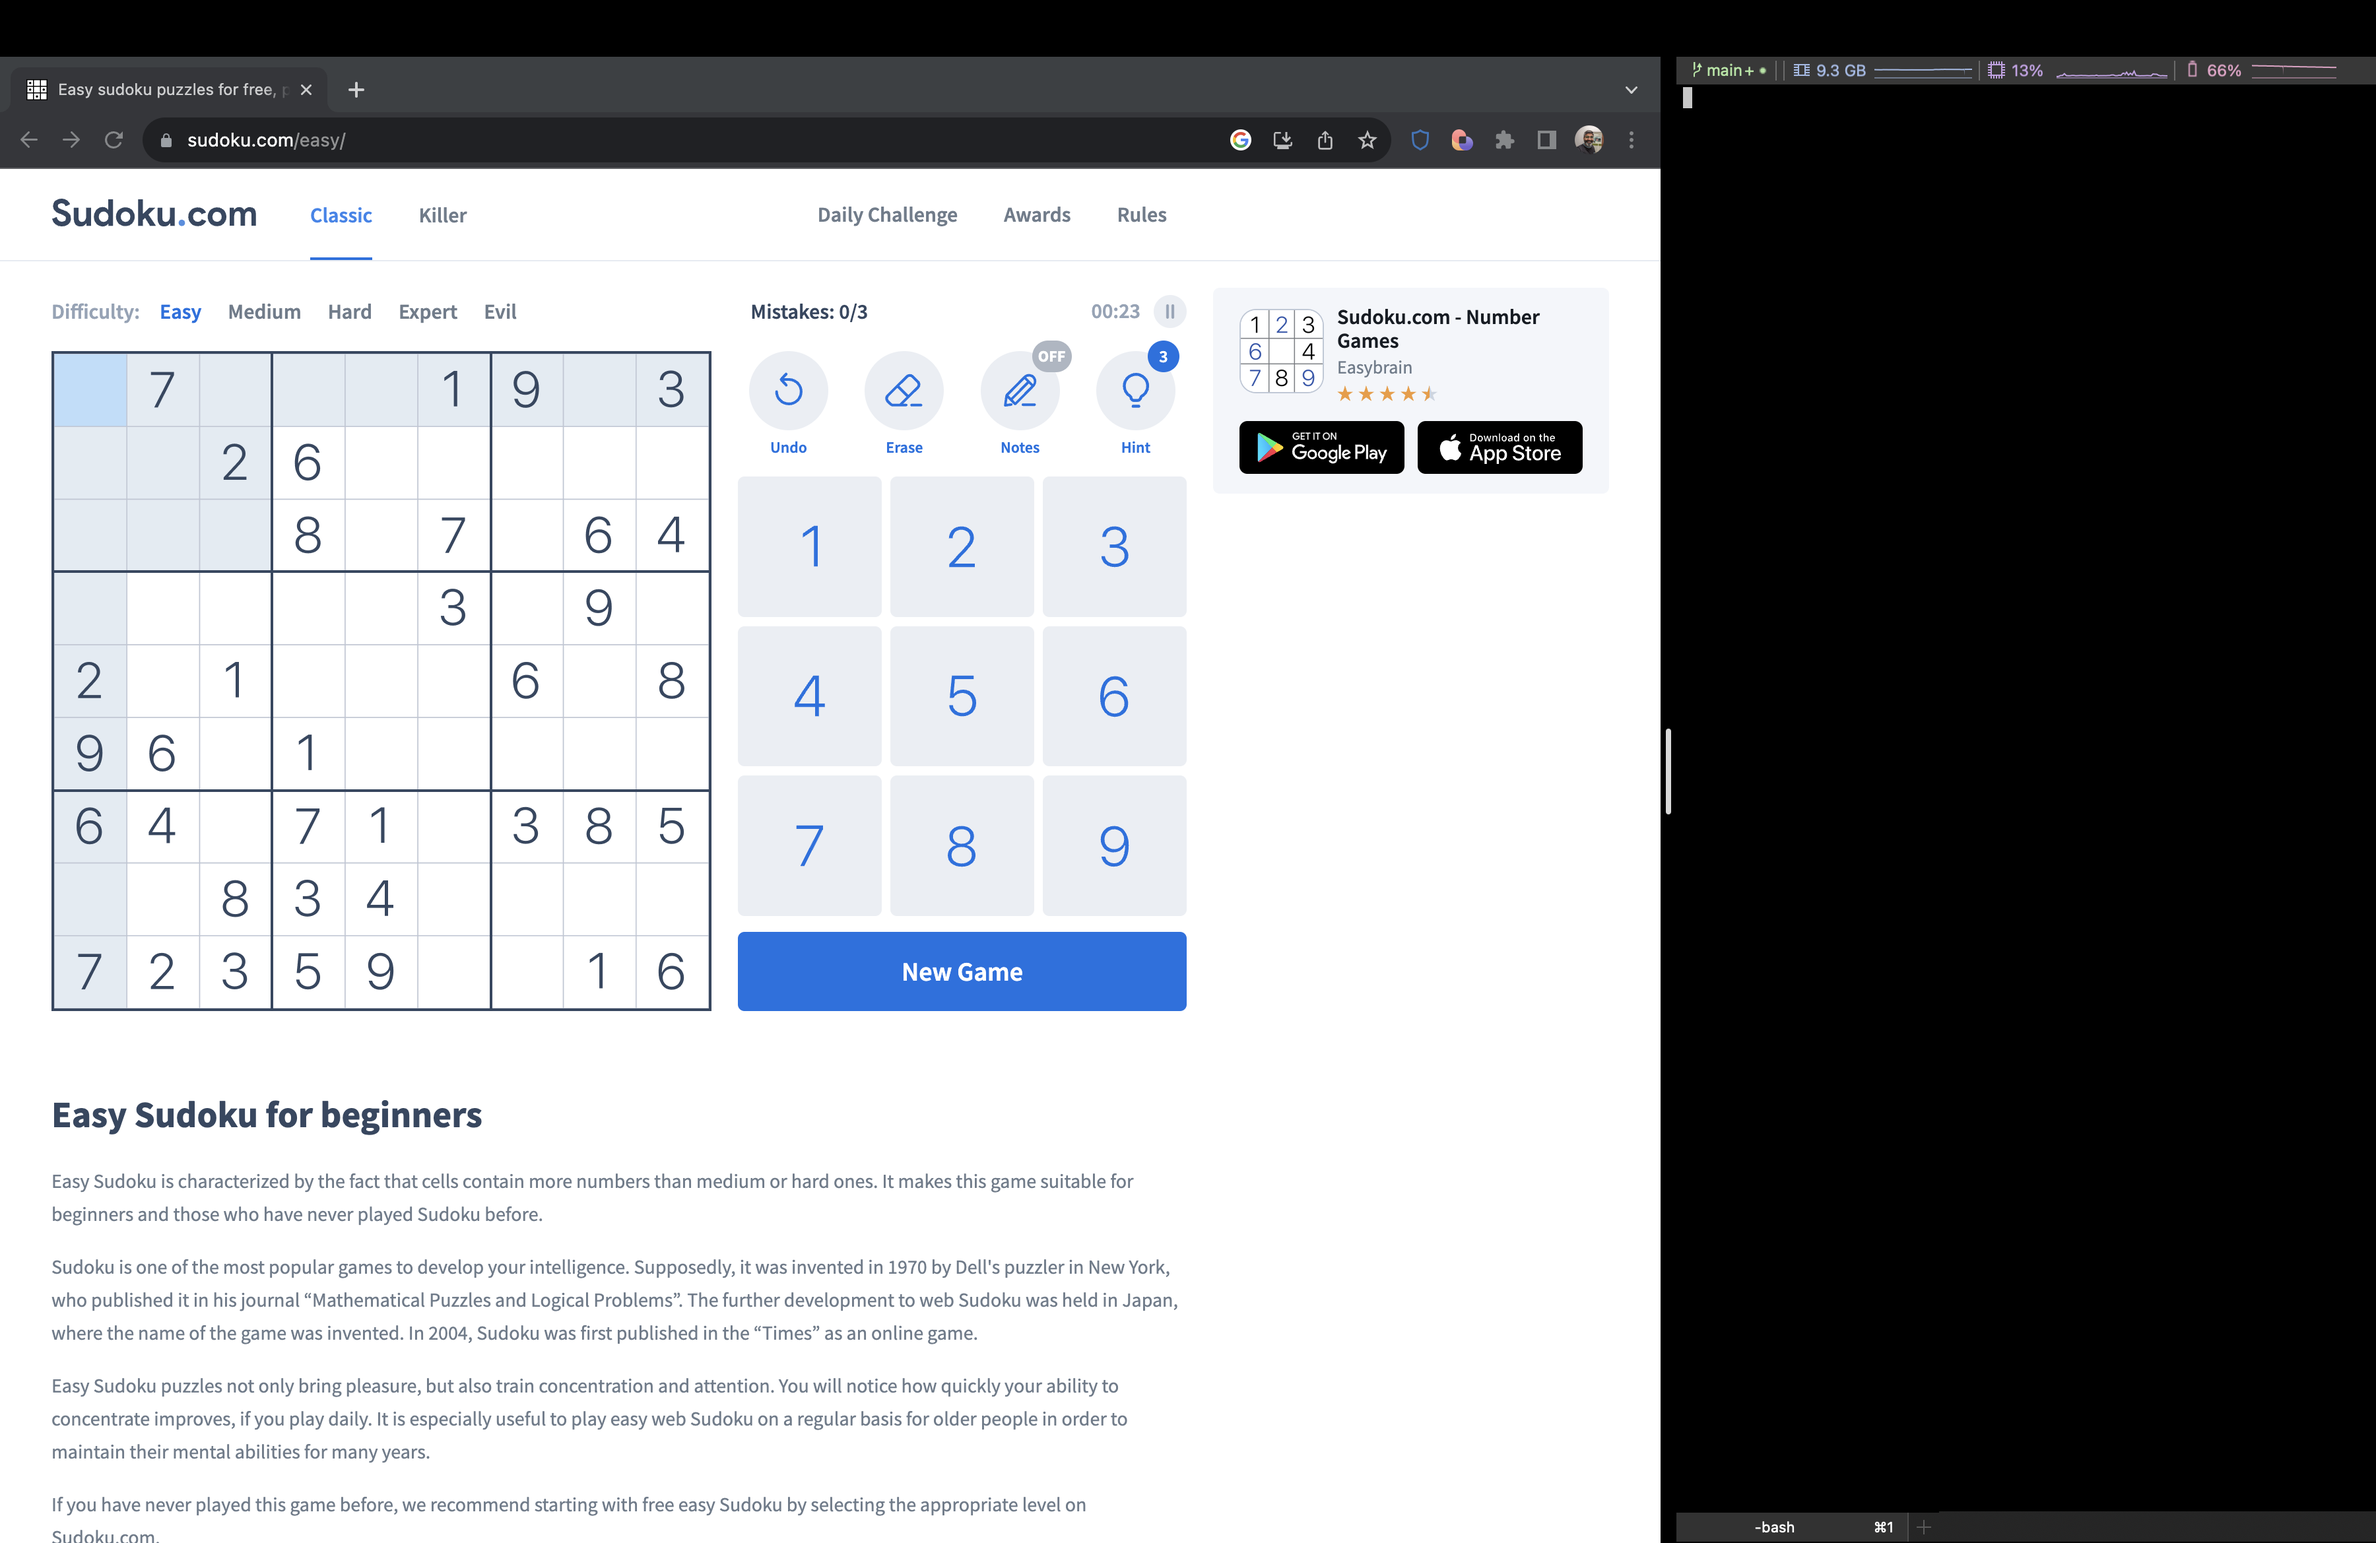
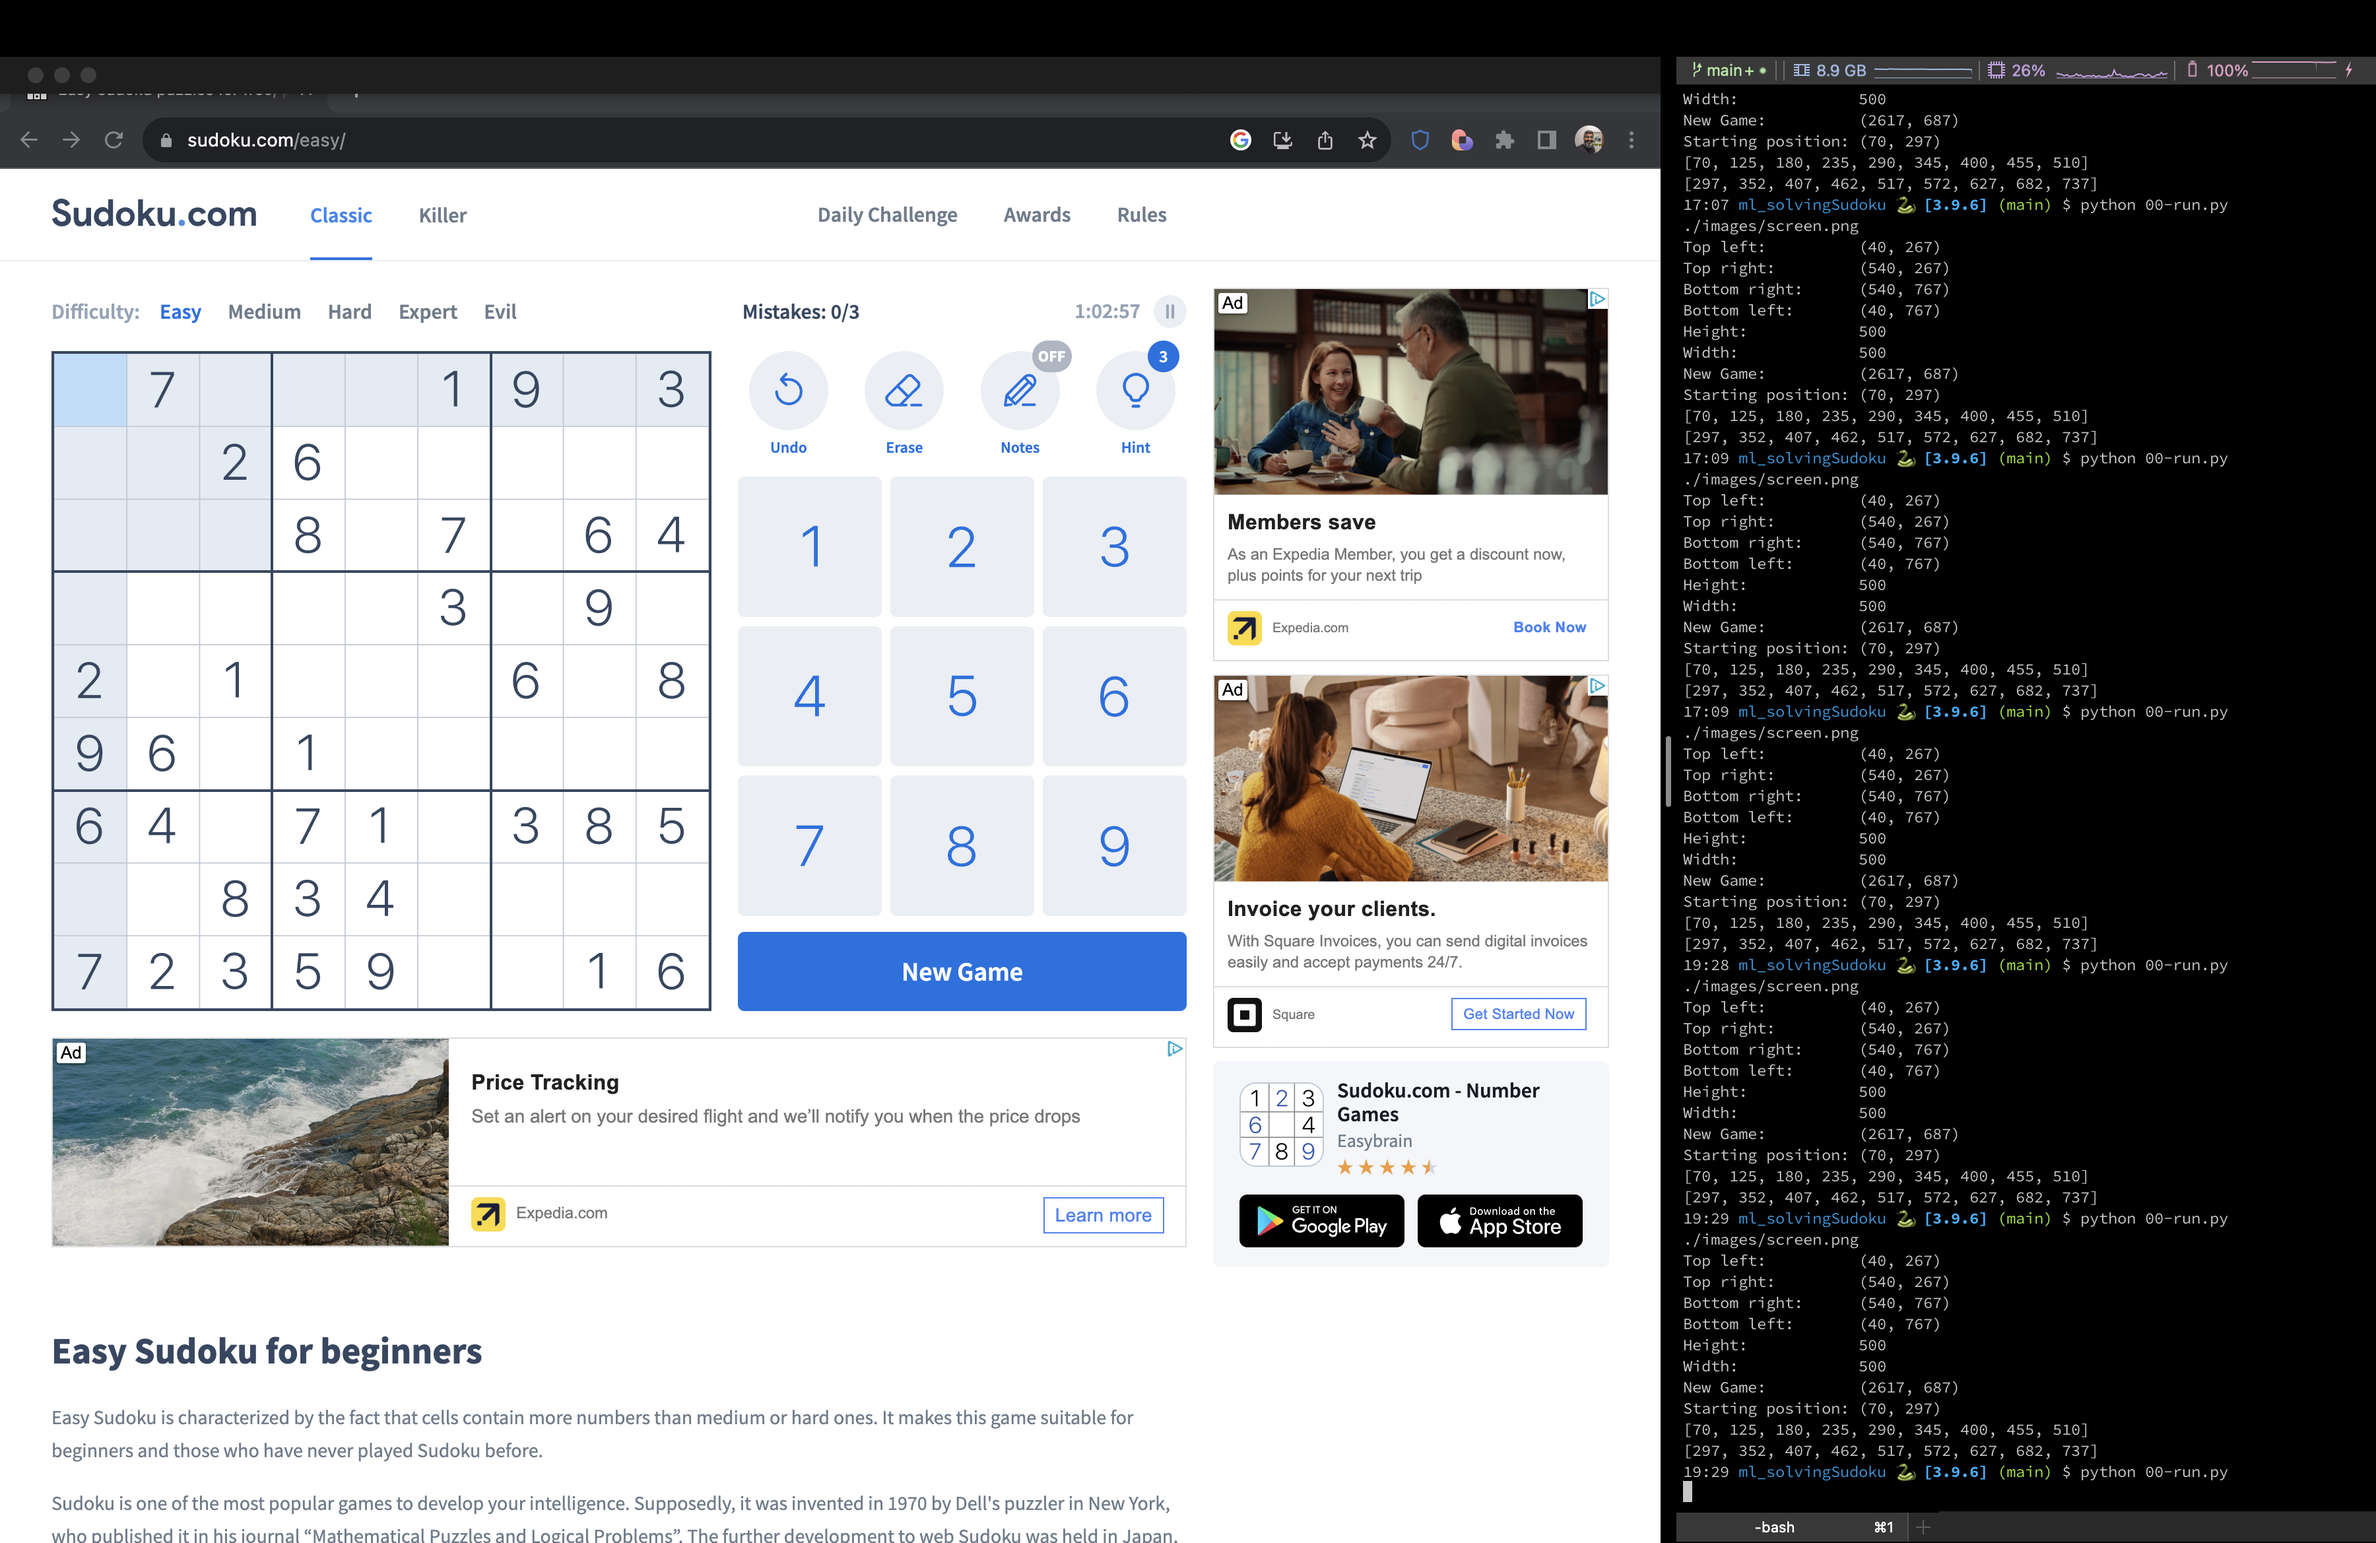
A lot of things happening

diff --git a/01.takeScreenShot.py b/01.takeScreenShot.py
@@ -1,4 +1,5 @@
 import pyautogui
+import pytesseract
 import cv2
 import numpy as np
 import mss
@@ -6,28 +7,142 @@ import mss
 # import time
 # time.sleep(2)
 
+offset = 50
+offsetMatrix = {
+	"x": [70, 125, 180, 235, 290, 345, 400, 455, 510],
+	"y": [297, 352, 407, 462, 517, 572, 627, 682, 737]
+}
+
 filename ="./images/screen.png"
 
 # screenshot = pyautogui.screenshot('screenshot.png')
 # screenshot.save(r'./images/screen.png')
 
-screenshotImage = pyautogui.screenshot()
-screenshotImage = np.array(screenshotImage)
-opencvImage = cv2.cvtColor(screenshotImage, cv2.COLOR_RGB2BGR)
-textLocation = pyautogui.locateAllOnScreen('./images/difficulty.png',grayscale=True, confidence=0.45)
-
-image = opencvImage.copy()
-for loc in list(textLocation):
-  print(loc)
-  cv2.circle(image, (loc.left, loc.top), 10, (0, 0, 255), 10)
-  pyautogui.moveTo(loc.left, loc.top, duration=0.1)  
-
-cv2.imwrite("./images/screen2.png", image)
-
 # with mss.mss() as sct:
 #   filename = sct.shot(output="./images/screen.png")
 #   print(filename)
-#   textLocation = pyautogui.locate('./images/difficulty.png', filename, grayscale=True, confidence=0.1)
-#   cv2.circle(image, topLeft, radius, (0, 0, 255), 10)
-#   print(textLocation)
-#   pyautogui.moveTo(textLocation.left, textLocation.top, duration=1)  
+
+# image = cv2.imread(filename)
+
+# x, y = 120 * 2, 292 * 2
+
+# offset = 50
+# x1, y1 = x - offset, y - offset
+# x2, y2 = x + offset, y + offset
+
+# cv2.circle(image, (x,y), 10, (0, 0, 255), 10)
+
+# cv2.rectangle(image, (x1, y1), (x2, y2), (255, 0, 0), 2)
+
+# cv2.imwrite("./images/cell.png", image)
+
+def convertToBW(image, greyLimit):
+	for y in range(0, len(image)):
+		for x in range(0, len(image[y])):
+			if image[y][x] < greyLimit:
+				image[y][x] = 0
+			else:
+				image[y][x] = 255
+	return image
+
+def takeScreenShotOfRegionInOpenCVFormat(x, y, width, height):
+	with mss.mss() as sct:
+		monitor = {
+			"top": y, 
+			"left": x,
+			"width": width, 
+			"height": height
+		}
+	region = np.array(sct.grab(monitor))
+	region = cv2.cvtColor(region, cv2.COLOR_BGRA2GRAY)
+	return region
+
+def takeScreenshotOfCell(x, y, filename):
+	trimValue = 5
+	x = x - offset/2 + trimValue
+	y = y - offset/2 + trimValue
+	length = offset - (trimValue * 3)
+	return takeScreenShotOfRegionInOpenCVFormat(x, y, length, length)
+
+# difficulty image 
+x, y = 38.04296875, 227.140625
+region = takeScreenShotOfRegionInOpenCVFormat(x, y, 70, 20)
+region = convertToBW(region, 170)
+cv2.imwrite("./images/difficulty.png", region)
+
+# generate the numbers
+# x, y = 2,4
+# takeScreenshotOfCell(offsetMatrix["x"][x], offsetMatrix["y"][y], "./images/n-1")
+# x, y = 1,8
+# takeScreenshotOfCell(offsetMatrix["x"][x], offsetMatrix["y"][y], "./images/n-2")
+# x, y = 2,8
+# takeScreenshotOfCell(offsetMatrix["x"][x], offsetMatrix["y"][y], "./images/n-3")
+# x, y = 1,6
+# takeScreenshotOfCell(offsetMatrix["x"][x], offsetMatrix["y"][y], "./images/n-4")
+# x, y = 3,8
+# takeScreenshotOfCell(offsetMatrix["x"][x], offsetMatrix["y"][y], "./images/n-5")
+# x, y = 3,1
+# takeScreenshotOfCell(offsetMatrix["x"][x], offsetMatrix["y"][y], "./images/n-6")
+# x, y = 0,8
+# takeScreenshotOfCell(offsetMatrix["x"][x], offsetMatrix["y"][y], "./images/n-7")
+# x, y = 2,7
+# takeScreenshotOfCell(offsetMatrix["x"][x], offsetMatrix["y"][y], "./images/n-8")
+# x, y = 4,8
+# takeScreenshotOfCell(offsetMatrix["x"][x], offsetMatrix["y"][y], "./images/n-9")
+
+# numbers = []
+# for i in range(0, 9):
+# 	numbers.append(cv2.imread("./images/n-" + str(i+1) + ".png", cv2.IMREAD_GRAYSCALE))
+
+# x, y = 7,8 # 1
+# x, y = 2,1 # 2
+# x, y = 5,3 # 3
+# x, y = 4,7 # 4
+# x, y = 8,6 # 5
+# x, y = 6,4 # 6
+# x, y = 5,2 # 7
+# x, y = 8,4 # 8
+# x, y = 4,8 # 9
+# cell = takeScreenshotOfCell(offsetMatrix["x"][x], offsetMatrix["y"][y], "./images/cell")
+
+# maxValue = 0
+# number = 0
+# for i in range(0, len(numbers)):
+# 	result = cv2.matchTemplate(cell, numbers[i], cv2.TM_CCOEFF_NORMED)
+# 	min_val, max_val, min_loc, max_loc = cv2.minMaxLoc(result)
+# 	print("{0} {1}".format(i+1, max_val))
+# 	if max_val > maxValue:
+# 		maxValue = max_val
+# 		number = i+1
+
+# print(number)
+
+# def toBW(image):
+# 	for y in range(0, len(image)):
+# 		for x in range(0, len(image[y])):
+# 			if image[y][x] < 180:
+# 				image[y][x] = 0
+# 			else:
+# 				image[y][x] = 255
+# 	return image
+
+imageOfDifficulty = cv2.imread("./images/difficulty.png", cv2.IMREAD_GRAYSCALE)
+
+imageOfSreen = cv2.imread("./images/screen.png", cv2.IMREAD_GRAYSCALE)
+imageOfSreen = convertToBW(imageOfSreen, 180)
+cv2.imwrite("./images/screenBW.png", imageOfSreen)
+
+result = cv2.matchTemplate(imageOfSreen, imageOfDifficulty, cv2.TM_CCOEFF_NORMED)
+min_val, max_val, min_loc, max_loc = cv2.minMaxLoc(result)
+# print(min_val, max_val, min_loc, max_loc)
+print(max_loc)
+
+locMax = tuple(int(i/2) for i in max_loc)
+print(locMax)
+
+topLeft = (40, 267)
+print(topLeft)
+
+topLeft = (locMax[0], locMax[1] + 40)
+print(topLeft)
+pyautogui.moveTo(topLeft, duration=1)

diff --git a/00-run.py b/00-run.py
@@ -1,9 +1,11 @@
-import mss, pyautogui
+import mss, pyautogui, cv2
+import numpy as np
 from pynput.mouse import Listener, Controller
 
 # Globals
 monitor = 1
-duration = 0.1 # Duration of the mouse movement
+duration = 0.0 # Duration of the mouse movement
+scale = 1.0 # Scale of the screenshot
 # topLeft = (0, 0)
 topLeft = (40, 267)
 topRight = (0, 0)
@@ -15,7 +17,7 @@ widthOfGrid = 500
 newGameButton = (2617, 687)
 
 counter = 0
-cellStartOffset = 25;
+cellStartOffset = 30;
 startingPosition = (0, 0)
 offset = 50
 offsetMatrix = {
@@ -54,10 +56,28 @@ def mapCoordinates():
 		listener.join()
 
 
-def takeScreenshotOfASpecificArea(topLeft, bottomRight):
+def takeScreenshotOfCell(x, y):
+	trimValue = 5
+	x = x - offset/2 + trimValue
+	y = y - offset/2 + trimValue
+	length = offset - (trimValue * 3)
 	with mss.mss() as sct:
-		monitor = {"top": topLeft[1], "left": topLeft[0], "width": bottomRight[0] - topLeft[0], "height": bottomRight[1] - topLeft[1]}
-		return sct.grab(monitor)
+		monitor = {
+			"top": y, 
+			"left": x,
+			"width": length, 
+			"height": length
+		}
+	cell = np.array(sct.grab(monitor))
+	cell = cv2.cvtColor(cell, cv2.COLOR_BGRA2GRAY)
+	for i in range(0, length):
+		for j in range(0, length):
+			if cell[i][j] < 100:
+				cell[i][j] = 0
+			else:
+				cell[i][j] = 255
+	np.savetxt("6-2.txt", cell, fmt='%3u')
+	return cell
 
 
 def understandTheGrid():
@@ -88,12 +108,19 @@ if __name__ == '__main__':
 	generateOffsetMatrix()
 	print(offsetMatrix["x"])
 	print(offsetMatrix["y"])
-	# takeScreenshotOfASpecificArea(topLeft, bottomRight)
+
+	# x, y = 1,0 # 7
+	# x, y = 0,6 # 6
+	x, y = 3,1 # 6
+	test = takeScreenshotOfCell(offsetMatrix["x"][x], offsetMatrix["y"][y])
+	test = np.array(test)
+	cv2.imwrite("./images/cell-2.png", test)
+	# cv2.imwrite("./images/cell-2.png", test)
 	
 	# pyautogui.moveTo(topLeft, duration=duration)
 	# pyautogui.moveTo(topRight, duration=duration)
 	# pyautogui.moveTo(bottomRight, duration=duration)
 	# pyautogui.moveTo(bottomLeft, duration=duration)
 	# pyautogui.moveTo(newGameButton, duration=duration)
-	understandTheGrid()
-			
+	# understandTheGrid()
+	

diff --git a/03.gridTracker.py b/03.gridTracker.py
@@ -10,10 +10,13 @@ savedMapImage = "./images/map.png"
 
 duration = 0
 
-topLeft = (310, 267)
-topRight = (810, 267)
-bottomRight = (810, 765)
-bottomLeft = (310, 765)
+# topLeft = (40, 267)
+topLeft = (80, 267*2)
+heightOfGrid = 1000
+widthOfGrid = 1000
+topRight = (topLeft[0] + widthOfGrid, topLeft[1])
+bottomRight = (topLeft[0] + widthOfGrid, topLeft[1] + heightOfGrid)
+bottomLeft = (topLeft[0], topLeft[1] + heightOfGrid)
 print('Top left:          {0}'.format(topLeft))
 print('Top right:         {0}'.format(topRight))
 print('Bottom right:      {0}'.format(bottomRight))
@@ -24,10 +27,8 @@ gridBottomRight = (419, 319)
 print('Grid top left:     {0}'.format(gridTopLeft))
 print('Grid bottom right: {0}'.format(gridBottomRight))
 
-gridWidth = gridBottomRight[0] - gridTopLeft[0]
-gridHeight = gridBottomRight[1] - gridTopLeft[1]
-print('Grid width:        {0}'.format(gridWidth))
-print('Grid height:       {0}'.format(gridHeight))
+print('Grid width:        {0}'.format(widthOfGrid))
+print('Grid height:       {0}'.format(heightOfGrid))
 
 pyautogui.moveTo(topLeft, duration=duration)
 pyautogui.moveTo(topRight, duration=duration)
@@ -49,6 +50,7 @@ print('* Bottom left      {0}'.format(newBottomLeft))
 
 image = opencvImage.copy()
 height, width = image.shape[:2]
+print(1800,1169)
 print('Image width:       {0}'.format(width))
 print('Image height:      {0}'.format(height))
 
@@ -65,5 +67,3 @@ cv2.circle(image, topRight, radius, (0, 0, 255), 10)
 cv2.circle(image, bottomRight, radius, (0, 0, 255), 10)
 cv2.circle(image, bottomLeft, radius, (0, 0, 255), 10)
 cv2.imwrite(savedMapImage, image)
-
-# cv2.imshow("Processes", image)
